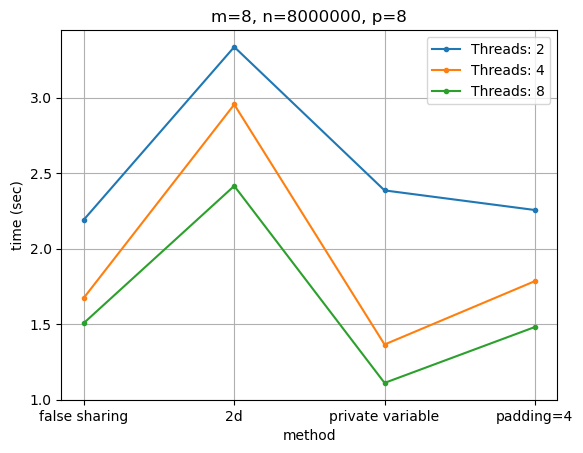
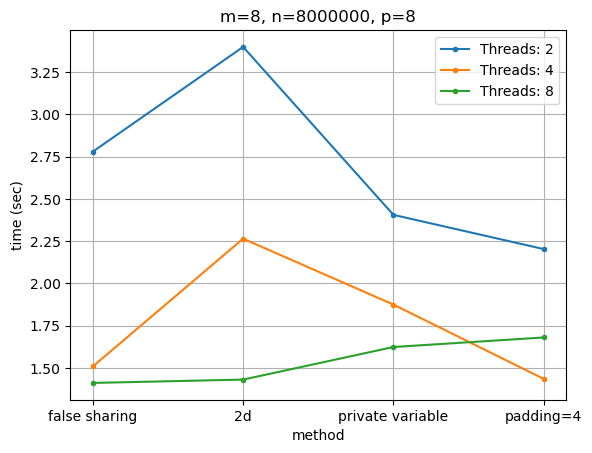
1.2 hopefully final plots :)

diff --git a/PThreads/matmul/plots.py b/PThreads/matmul/plots.py
@@ -1,8 +1,5 @@
 import pandas as pd
 import matplotlib.pyplot as plt
-
-
-import itertools
 import subprocess
 
 
@@ -24,7 +21,7 @@ sizes = [
 ]
 
 threads = ['2', '4', '8']
-padding_sizes = ['2', '4', '8']
+padding_sizes = ['2', '4', '8', '16']
 
 combs = [[name] + size for name in methods for size in sizes if name != './pad_var']
 combs += [['./pad_var'] + size + [padding] for size in sizes for padding in padding_sizes]
@@ -32,11 +29,11 @@ combs = [x + [thread] for x in combs for thread in threads]
 
 output_csv = './output/results.csv'
 
-# with open(output_csv, 'w') as file:
-#     file.write('method,threads,padding,time,m,n,p\n')
+with open(output_csv, 'w') as file:
+    file.write('method,threads,padding,time,m,n,p\n')
 
-# for params in combs:
-#     process = subprocess.run(list(params) + [output_csv])
+for params in combs:
+    process = subprocess.run(list(params) + [output_csv])
 
 
 for dfs_dim in [group for _, group in pd.read_csv(output_csv).groupby(['m', 'n', 'p'])]:
@@ -48,7 +45,6 @@ for dfs_dim in [group for _, group in pd.read_csv(output_csv).groupby(['m', 'n',
 
         fig, ax = plt.subplots()
         ax.grid(visible=True)
-        # ax.set_title(f'm={m}, n={n}, p={p}, padding={pad}')
         ax.set_title(f'm={m}, n={n}, p={p}')
         ax.set_xlabel('method')
         ax.set_ylabel('time (sec)')
